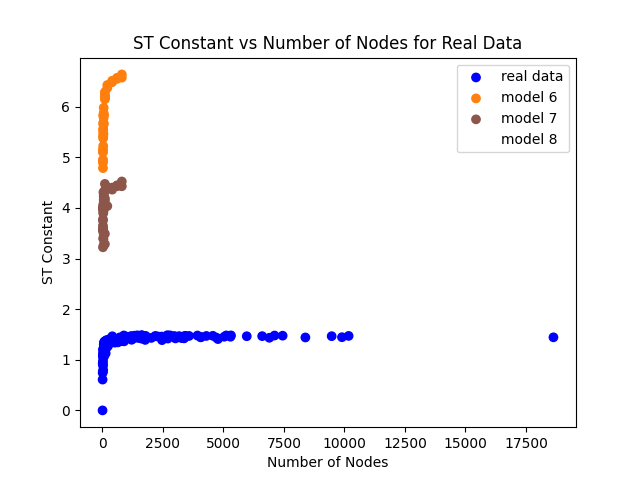
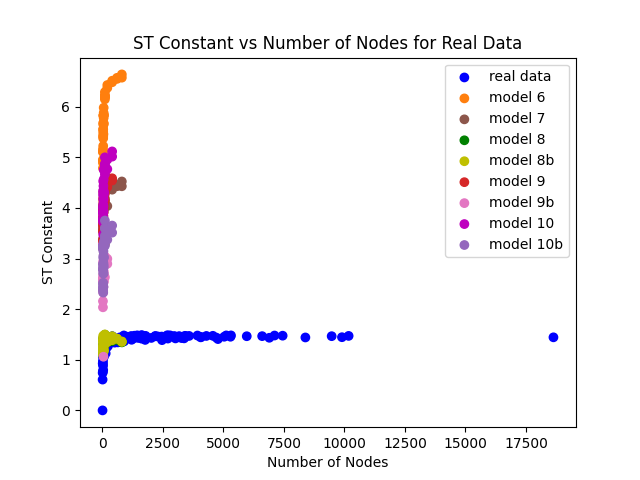
view st cons for models

Changed region(s): [[0.6875, 0.125, 0.875, 0.5312], [0.1562, 0.3125, 0.1875, 0.6562], [0.1562, 0.6875, 0.2188, 0.75]]

diff --git a/spanning_trees.py b/spanning_trees.py
@@ -12,7 +12,9 @@ import pandas as pd
 import pickle
 
 # Import model functions
+import importlib
 import models
+importlib.reload(models)
 
 #############
 # functions #
@@ -136,9 +138,9 @@ else:
 # Edit previous imported data to get only rand_seed and num_vertices
 new_df = df[["num_vertices", "rand_seed"]].drop_duplicates()
 
-new_vert = [200, 400, 600, 800, 1000, 1200, 1400, 1600, 1800, 2000, 2500, 5000, 7000, 10000] #, 15000, 20000, 25000]
+new_vert = [200, 400] #, 600, 800] #, 1000, 1200, 1400, 1600, 1800, 2000, 2500, 5000, 7000, 10000] #, 15000, 20000, 25000]
 for vert in new_vert:
-    for seed in df["rand_seed"].unique()[0:4]:
+    for seed in df["rand_seed"].unique()[0:2]:
         new_row = pd.DataFrame([{'num_vertices': vert, 'rand_seed': seed}])
         new_df = pd.concat([new_df, new_row], ignore_index=True)
 
@@ -512,9 +514,9 @@ else:
         T = np.delete(T,1,1)
         (sign, logabsdet) = slogdet(T)
         if (sign == 1):
-            tree_const_m4b.append(np.exp(logabsdet/nodes))
-            num_nodes_m4b.append(nodes)
-            log_trees_m4b.append(logabsdet)
+            tree_const_m8.append(np.exp(logabsdet/nodes))
+            num_nodes_m8.append(nodes)
+            log_trees_m8.append(logabsdet)
     
     # Save the lists as pickles so I do not have to run the code each time
     with open('pkls/num_nodes_m8.pkl', 'wb') as f:
@@ -524,6 +526,212 @@ else:
     with open('pkls/log_trees_m8.pkl', 'wb') as f:
         pickle.dump(log_trees_m8, f)
 
+# ##############
+# #  model 8b  #
+# ##############
+
+# file_paths = ['pkls/num_nodes_m8b.pkl', 'pkls/tree_const_m8b.pkl', 'pkls/log_trees_m8b.pkl']
+# if check_file_paths(file_paths):
+#     with open('pkls/num_nodes_m8b.pkl', 'rb') as f:
+#         num_nodes_m8b = pickle.load(f)
+#     with open('pkls/tree_const_m8b.pkl', 'rb') as f:
+#         tree_const_m8b = pickle.load(f)
+#     with open('pkls/log_trees_m8b.pkl', 'rb') as f:
+#         log_trees_m8b = pickle.load(f)
+# else:
+#     num_nodes_m8b = []
+#     tree_const_m8b = []
+#     log_trees_m8b = []
+
+#     for index, row in new_df.iterrows():
+#         nodes = int(row["num_vertices"])
+#         rs = int(row["rand_seed"])
+#         graph = models.model_eight(nodes, rs) # try different removal prob and scaling factors
+
+#         # calculate graph Laplacian
+#         print('calculating model 8b:', nodes, rs)
+#         Lap = nx.laplacian_matrix(graph).toarray()
+#         T = np.delete(Lap,1,0)
+#         T = np.delete(T,1,1)
+#         (sign, logabsdet) = slogdet(T)
+#         if (sign == 1):
+#             tree_const_m8b.append(np.exp(logabsdet/nodes))
+#             num_nodes_m8b.append(nodes)
+#             log_trees_m8b.append(logabsdet)
+    
+#     # Save the lists as pickles so I do not have to run the code each time
+#     with open('pkls/num_nodes_m8b.pkl', 'wb') as f:
+#         pickle.dump(num_nodes_m8b, f)
+#     with open('pkls/tree_const_m8b.pkl', 'wb') as f:
+#         pickle.dump(tree_const_m8b, f)
+#     with open('pkls/log_trees_m8b.pkl', 'wb') as f:
+#         pickle.dump(log_trees_m8b, f)
+
+
+#############
+#  model 9  #
+#############
+
+file_paths = ['pkls/num_nodes_m9.pkl', 'pkls/tree_const_m9.pkl', 'pkls/log_trees_m9.pkl']
+if check_file_paths(file_paths):
+    with open('pkls/num_nodes_m9.pkl', 'rb') as f:
+        num_nodes_m9 = pickle.load(f)
+    with open('pkls/tree_const_m9.pkl', 'rb') as f:
+        tree_const_m9 = pickle.load(f)
+    with open('pkls/log_trees_m9.pkl', 'rb') as f:
+        log_trees_m9 = pickle.load(f)
+else:
+    num_nodes_m9 = []
+    tree_const_m9 = []
+    log_trees_m9 = []
+
+    for index, row in new_df.iterrows():
+        nodes = int(row["num_vertices"])
+        rs = int(row["rand_seed"])
+        graph = models.model_dt_with_removal_add_shortest_edges(nodes, rs)
+
+        # calculate graph Laplacian
+        print('calculating model 9:', nodes, rs)
+        Lap = nx.laplacian_matrix(graph).toarray()
+        T = np.delete(Lap,1,0)
+        T = np.delete(T,1,1)
+        (sign, logabsdet) = slogdet(T)
+        if (sign == 1):
+            tree_const_m9.append(np.exp(logabsdet/nodes))
+            num_nodes_m9.append(nodes)
+            log_trees_m9.append(logabsdet)
+    
+    # Save the lists as pickles so I do not have to run the code each time
+    with open('pkls/num_nodes_m9.pkl', 'wb') as f:
+        pickle.dump(num_nodes_m9, f)
+    with open('pkls/tree_const_m9.pkl', 'wb') as f:
+        pickle.dump(tree_const_m9, f)
+    with open('pkls/log_trees_m9.pkl', 'wb') as f:
+        pickle.dump(log_trees_m9, f)
+
+##############
+#  model 9b  #
+##############
+
+file_paths = ['pkls/num_nodes_m9b.pkl', 'pkls/tree_const_m9b.pkl', 'pkls/log_trees_m9b.pkl']
+if check_file_paths(file_paths):
+    with open('pkls/num_nodes_m9b.pkl', 'rb') as f:
+        num_nodes_m9b = pickle.load(f)
+    with open('pkls/tree_const_m9b.pkl', 'rb') as f:
+        tree_const_m9b = pickle.load(f)
+    with open('pkls/log_trees_m9b.pkl', 'rb') as f:
+        log_trees_m9b = pickle.load(f)
+else:
+    num_nodes_m9b = []
+    tree_const_m9b = []
+    log_trees_m9b = []
+
+    for index, row in new_df.iterrows():
+        nodes = int(row["num_vertices"])
+        rs = int(row["rand_seed"])
+        graph = models.model_dt_with_removal_add_shortest_edges(nodes, rs, remove_prob=0.4)
+
+        # calculate graph Laplacian
+        print('calculating model 9b:', nodes, rs)
+        Lap = nx.laplacian_matrix(graph).toarray()
+        T = np.delete(Lap,1,0)
+        T = np.delete(T,1,1)
+        (sign, logabsdet) = slogdet(T)
+        if (sign == 1):
+            tree_const_m9b.append(np.exp(logabsdet/nodes))
+            num_nodes_m9b.append(nodes)
+            log_trees_m9b.append(logabsdet)
+    
+    # Save the lists as pickles so I do not have to run the code each time
+    with open('pkls/num_nodes_m9b.pkl', 'wb') as f:
+        pickle.dump(num_nodes_m9b, f)
+    with open('pkls/tree_const_m9b.pkl', 'wb') as f:
+        pickle.dump(tree_const_m9b, f)
+    with open('pkls/log_trees_m9b.pkl', 'wb') as f:
+        pickle.dump(log_trees_m9b, f)
+
+
+##############
+#  model 10  #
+##############
+
+file_paths = ['pkls/num_nodes_m10.pkl', 'pkls/tree_const_m10.pkl', 'pkls/log_trees_m10.pkl']
+if check_file_paths(file_paths):
+    with open('pkls/num_nodes_m10.pkl', 'rb') as f:
+        num_nodes_m10 = pickle.load(f)
+    with open('pkls/tree_const_m10.pkl', 'rb') as f:
+        tree_const_m10 = pickle.load(f)
+    with open('pkls/log_trees_m10.pkl', 'rb') as f:
+        log_trees_m10 = pickle.load(f)
+else:
+    num_nodes_m10 = []
+    tree_const_m10 = []
+    log_trees_m10 = []
+
+    for index, row in new_df.iterrows():
+        nodes = int(row["num_vertices"])
+        rs = int(row["rand_seed"])
+        graph = models.model_dt_add_shortest_edges_remove_rand(nodes, rs)
+
+        # calculate graph Laplacian
+        print('calculating model 10:', nodes, rs)
+        Lap = nx.laplacian_matrix(graph).toarray()
+        T = np.delete(Lap,1,0)
+        T = np.delete(T,1,1)
+        (sign, logabsdet) = slogdet(T)
+        if (sign == 1):
+            tree_const_m10.append(np.exp(logabsdet/nodes))
+            num_nodes_m10.append(nodes)
+            log_trees_m10.append(logabsdet)
+    
+    # Save the lists as pickles so I do not have to run the code each time
+    with open('pkls/num_nodes_m10.pkl', 'wb') as f:
+        pickle.dump(num_nodes_m10, f)
+    with open('pkls/tree_const_m10.pkl', 'wb') as f:
+        pickle.dump(tree_const_m10, f)
+    with open('pkls/log_trees_m10.pkl', 'wb') as f:
+        pickle.dump(log_trees_m10, f)
+
+###############
+#  model 10b  #
+###############
+
+file_paths = ['pkls/num_nodes_m10b.pkl', 'pkls/tree_const_m10b.pkl', 'pkls/log_trees_m10b.pkl']
+if check_file_paths(file_paths):
+    with open('pkls/num_nodes_m10b.pkl', 'rb') as f:
+        num_nodes_m10b = pickle.load(f)
+    with open('pkls/tree_const_m10b.pkl', 'rb') as f:
+        tree_const_m10b = pickle.load(f)
+    with open('pkls/log_trees_m10b.pkl', 'rb') as f:
+        log_trees_m10b = pickle.load(f)
+else:
+    num_nodes_m10b = []
+    tree_const_m10b = []
+    log_trees_m10b = []
+
+    for index, row in new_df.iterrows():
+        nodes = int(row["num_vertices"])
+        rs = int(row["rand_seed"])
+        graph = models.model_dt_add_shortest_edges_remove_rand(nodes, rs, remove_prob=0.4)
+
+        # calculate graph Laplacian
+        print('calculating model 10b:', nodes, rs)
+        Lap = nx.laplacian_matrix(graph).toarray()
+        T = np.delete(Lap,1,0)
+        T = np.delete(T,1,1)
+        (sign, logabsdet) = slogdet(T)
+        if (sign == 1):
+            tree_const_m10b.append(np.exp(logabsdet/nodes))
+            num_nodes_m10b.append(nodes)
+            log_trees_m10b.append(logabsdet)
+    
+    # Save the lists as pickles so I do not have to run the code each time
+    with open('pkls/num_nodes_m10b.pkl', 'wb') as f:
+        pickle.dump(num_nodes_m10b, f)
+    with open('pkls/tree_const_m10b.pkl', 'wb') as f:
+        pickle.dump(tree_const_m10b, f)
+    with open('pkls/log_trees_m10b.pkl', 'wb') as f:
+        pickle.dump(log_trees_m10b, f)
 
 ###################################
 # plot st constant v num of nodes #
@@ -535,10 +743,15 @@ plt.scatter(num_nodes_real, tree_const_real, c=['b']*len(num_nodes_real))
 plt.scatter(num_nodes_m6, tree_const_m6, c=['tab:orange']*len(num_nodes_m6))
 plt.scatter(num_nodes_m7, tree_const_m7, c=['tab:brown']*len(num_nodes_m7))
 plt.scatter(num_nodes_m8, tree_const_m8, c=['g']*len(num_nodes_m8))
+plt.scatter(num_nodes_m8b, tree_const_m8b, c=['y']*len(num_nodes_m8b))
+plt.scatter(num_nodes_m9, tree_const_m9, c=['tab:red']*len(num_nodes_m9))
+plt.scatter(num_nodes_m9b, tree_const_m9b, c=['tab:pink']*len(num_nodes_m9b))
+plt.scatter(num_nodes_m10, tree_const_m10, c=['m']*len(num_nodes_m10))
+plt.scatter(num_nodes_m10b, tree_const_m10b, c=['tab:purple']*len(num_nodes_m10b))
 plt.title('ST Constant vs Number of Nodes for Real Data')
 plt.xlabel('Number of Nodes')
 plt.ylabel('ST Constant')
-plt.legend(['real data', 'model 6', 'model 7', 'model 8'])
+plt.legend(['real data', 'model 6', 'model 7', 'model 8', 'model 8b', 'model 9', 'model 9b', 'model 10', 'model 10b'])
 plt.savefig(f'imgs/st_cons/st_cons_real_data_vs_models.png')
 plt.show()
 
@@ -547,10 +760,16 @@ plt.scatter(num_nodes_real, tree_const_real, c=['b']*len(num_nodes_real))
 plt.scatter(num_nodes_m6, tree_const_m6, c=['tab:orange']*len(num_nodes_m6))
 plt.scatter(num_nodes_m7, tree_const_m7, c=['tab:brown']*len(num_nodes_m7))
 plt.scatter(num_nodes_m8, tree_const_m8, c=['g']*len(num_nodes_m8))
+plt.scatter(num_nodes_m8b, tree_const_m8b, c=['y']*len(num_nodes_m8b))
+plt.scatter(num_nodes_m9, tree_const_m9, c=['tab:red']*len(num_nodes_m9))
+plt.scatter(num_nodes_m9b, tree_const_m9b, c=['tab:pink']*len(num_nodes_m9b))
+plt.scatter(num_nodes_m10, tree_const_m10, c=['m']*len(num_nodes_m10))
+plt.scatter(num_nodes_m10b, tree_const_m10b, c=['tab:purple']*len(num_nodes_m10b))
 plt.title('ST Constant vs Number of Nodes for Real Data')
 plt.xlabel('Number of Nodes')
 plt.ylabel('ST Constant')
 plt.xlim(0, 1000)
+plt.legend(['real data', 'model 6', 'model 7', 'model 8', 'model 8b', 'model 9', 'model 9b', 'model 10', 'model 10b'])
 plt.savefig(f'imgs/st_cons/st_cons_zoomed_in_real_data_vs_models.png')
 plt.show()
 
